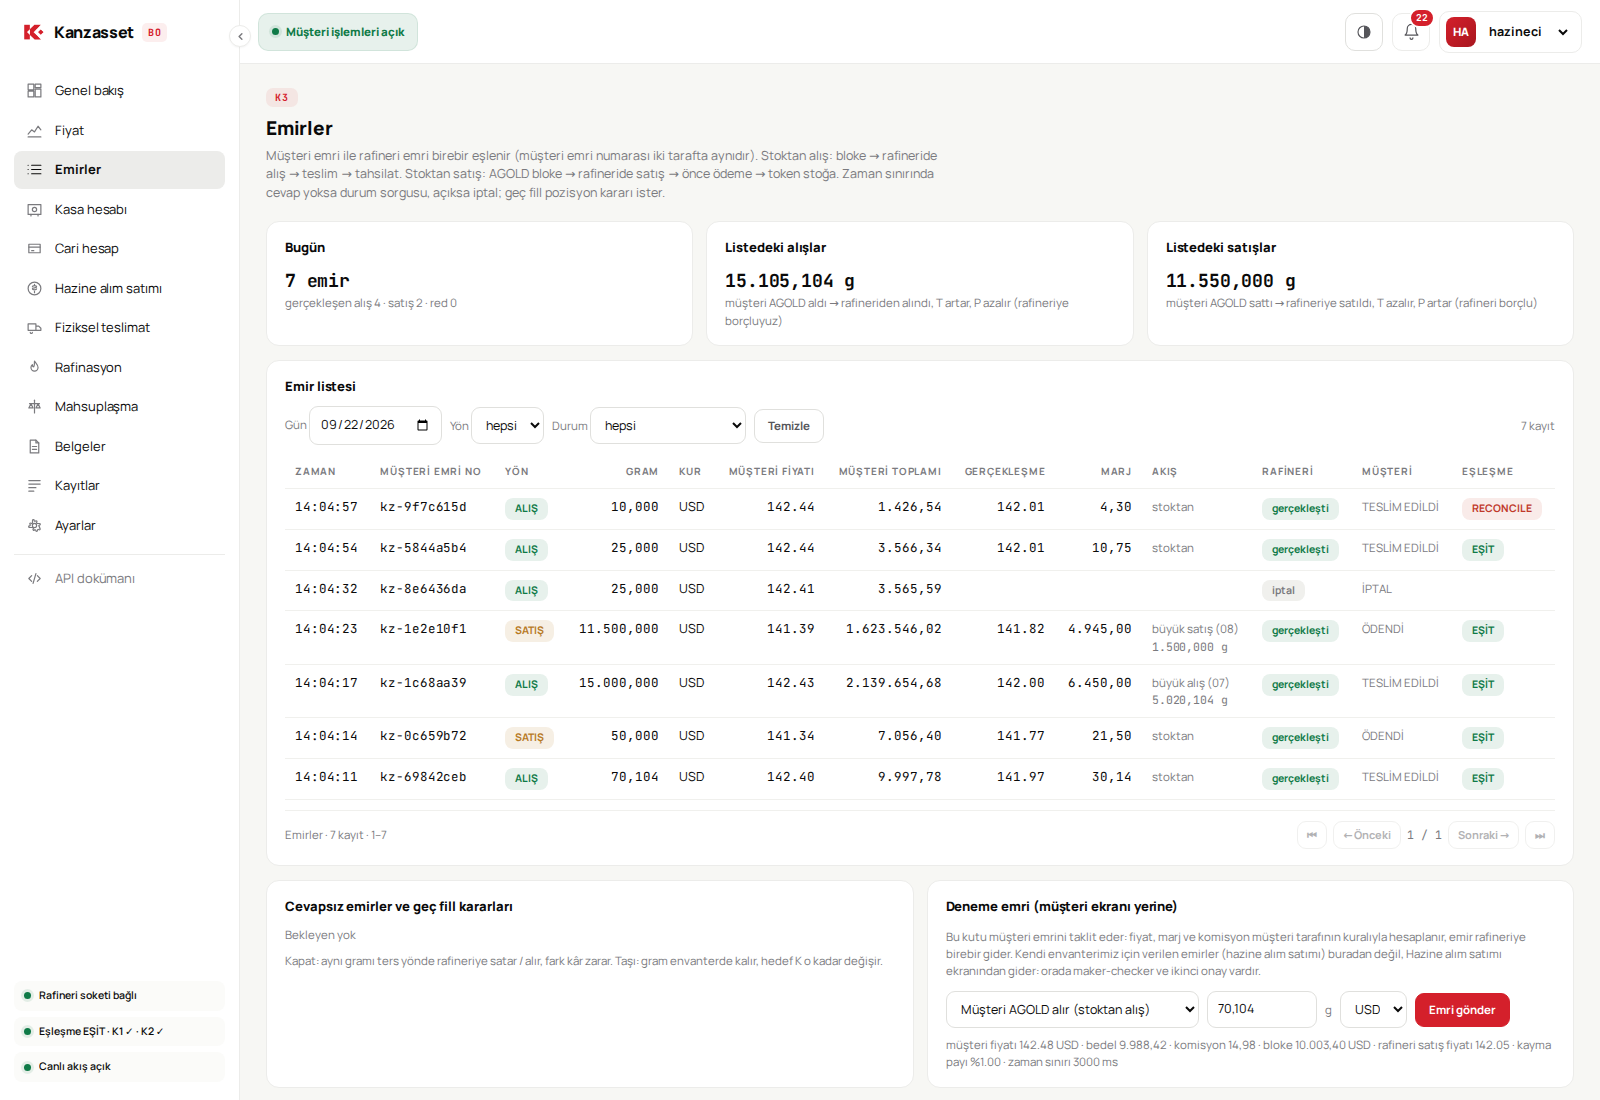
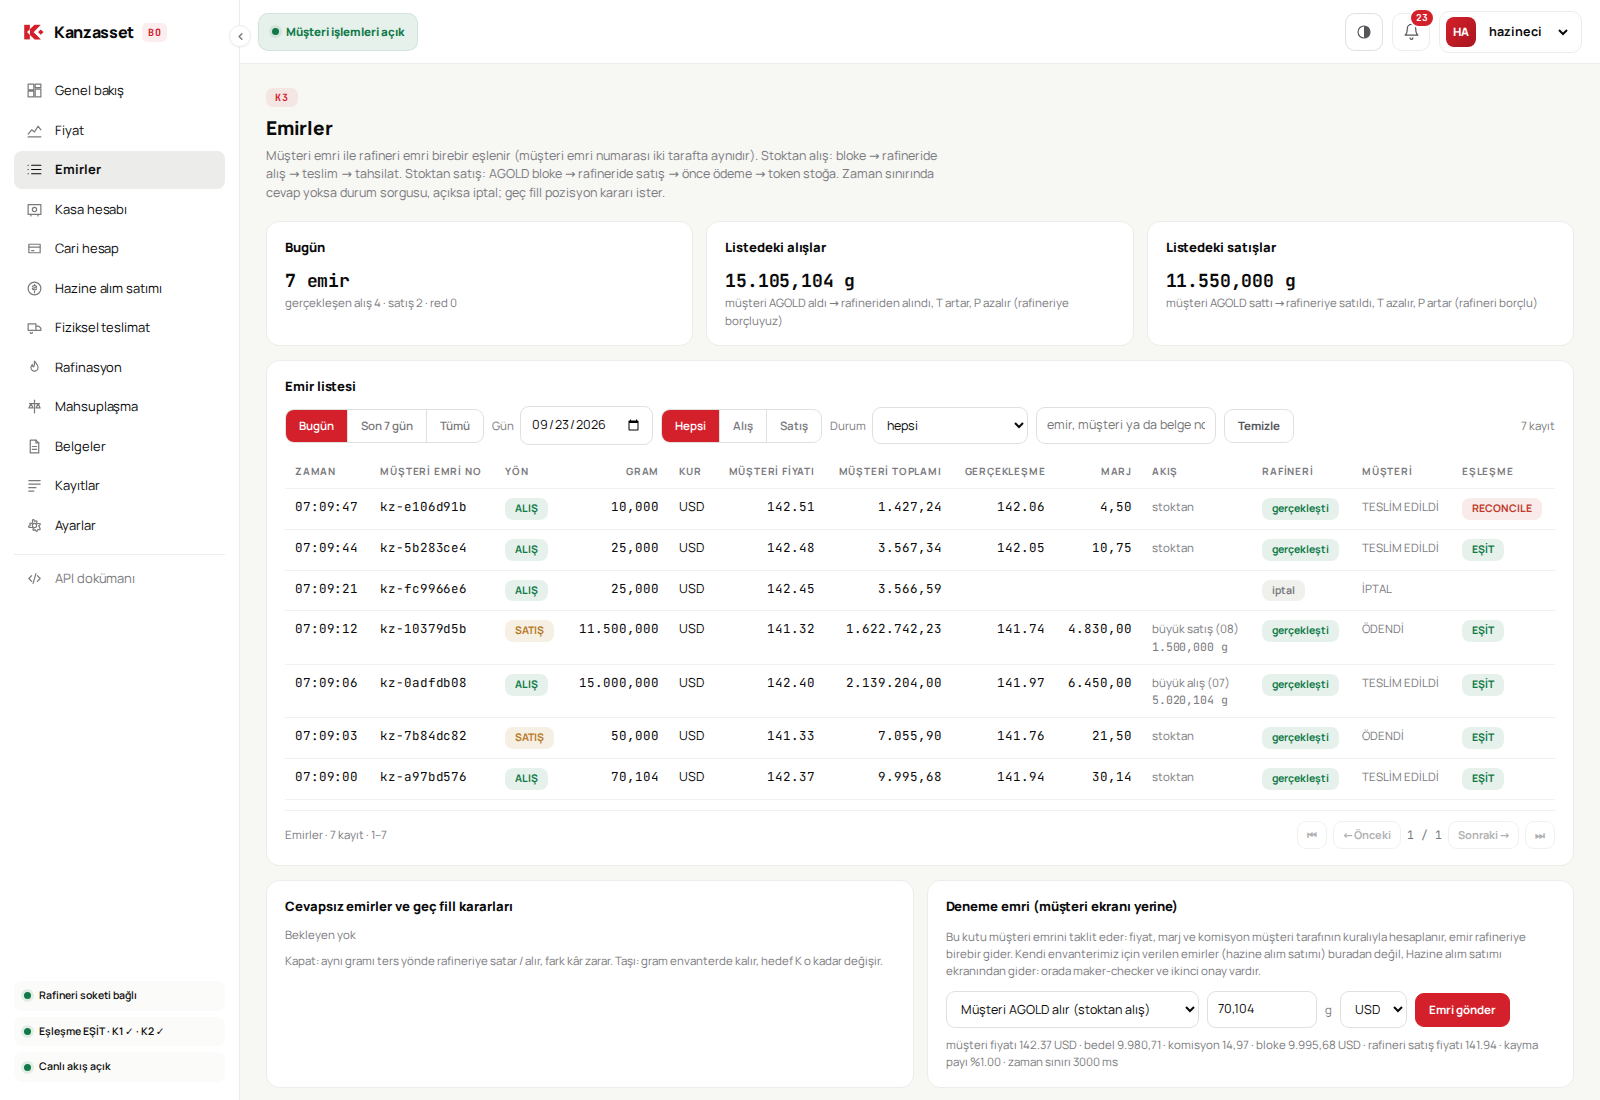
Emir süzgeçleri rafineriyle aynı, kasa talimatları 10 satır
- Emir listesi: dönem düğmeleri (Bugün / Son 7 gün / Tümü) + gün seçici, yön düğmeleri,
  durum listesi ve metin araması (emir, müşteri ya da belge no)
- Kasa talimatları listesi 10 satır, sayfa geçişiyle

Claude-Session: https://claude.ai/code/session_01FHsuXnfTh4Mk49Rpn4YzXE

diff --git a/apps/kz-web/src/pages/K3Orders.tsx b/apps/kz-web/src/pages/K3Orders.tsx
@@ -16,9 +16,12 @@ export function K3Orders({ live }: { live: Live }) {
   const s = live.status;
   const [data, setData] = useState<{ items: CustomerOrder[]; unanswered: CustomerOrder[]; lateFills: CustomerOrder[] } | null>(null);
   const [sel, setSel] = useState<CustomerOrder | null>(null);
+  /** Dönem: bugün · son 7 gün · tümü · seçilen gün. Gün seçilince dönem "gun" olur. */
+  const [period, setPeriod] = useState<"bugun" | "7gun" | "tumu" | "gun">("bugun");
   const [day, setDay] = useState(today());
   const [sideF, setSideF] = useState("");
   const [statusF, setStatusF] = useState("");
+  const [search, setSearch] = useState("");
   const [side, setSide] = useState<"BUY" | "SELL">("BUY");
   const [grams, setGrams] = useState("70,104");
   const [ccy, setCcy] = useState<Ccy>("USD");
@@ -48,10 +51,15 @@ export function K3Orders({ live }: { live: Live }) {
   const all = data?.items ?? [];
   const todays = all.filter((o) => sameDay(o.ts, today()));
   const count = (st: string, sd?: string) => todays.filter((o) => o.status === st && (!sd || o.side === sd)).length;
-  const list = all.filter((o) => sameDay(o.ts, day) && (!sideF || o.side === sideF) && (!statusF || o.status === statusF));
+  const since = period === "7gun" ? Date.now() - 7 * 86_400_000 : 0;
+  const text = search.trim().toLowerCase();
+  const list = all.filter((o) =>
+    (period === "tumu" || period === "7gun" ? (!since || Date.parse(o.ts) >= since) : sameDay(o.ts, period === "bugun" ? today() : day)) &&
+    (!sideF || o.side === sideF) && (!statusF || o.status === statusF) &&
+    (!text || o.id.toLowerCase().includes(text) || (o.customer_ref ?? "").toLowerCase().includes(text) || (o.refinery?.allocation_certificate?.doc_id ?? "").toLowerCase().includes(text)));
   const filled = list.filter((o) => o.status === "FILLED");
   const sumMg = (sd: "BUY" | "SELL") => filled.filter((o) => o.side === sd).reduce((a, o) => a + o.qty_mg, 0);
-  const p = usePager(list, 20, `${day}|${sideF}|${statusF}`);
+  const p = usePager(list, 20, `${period}|${day}|${sideF}|${statusF}|${text}`);
   const waiting = (data?.unanswered.length ?? 0) + (data?.lateFills.length ?? 0);
 
   return (
@@ -68,12 +76,26 @@ export function K3Orders({ live }: { live: Live }) {
 
       <section className="card">
         <h2>Emir listesi</h2>
-        <div className="row" style={{ marginBottom: 10 }}>
-          <label className="small">Gün <input type="date" value={day} onChange={(e) => setDay(e.target.value)} /></label>
-          <label className="small">Yön <select value={sideF} onChange={(e) => setSideF(e.target.value)}><option value="">hepsi</option><option value="BUY">alış</option><option value="SELL">satış</option></select></label>
-          <label className="small">Durum <select value={statusF} onChange={(e) => setStatusF(e.target.value)}><option value="">hepsi</option><option value="FILLED">gerçekleşti</option><option value="REJECTED">reddedildi</option><option value="CANCELLED">iptal</option><option value="UNANSWERED">cevapsız</option><option value="LATE_FILL">geç fill</option><option value="SENT">gönderildi (bekliyor)</option></select></label>
-          <button className="ghost" onClick={() => { setDay(""); setSideF(""); setStatusF(""); }}>Temizle</button>
-          <span className="small" style={{ marginLeft: "auto" }}>{list.length} kayıt</span>
+        <div className="filters" style={{ marginBottom: 10 }}>
+          <div className="seg">
+            <button className={period === "bugun" ? "on" : ""} onClick={() => setPeriod("bugun")}>Bugün</button>
+            <button className={period === "7gun" ? "on" : ""} onClick={() => setPeriod("7gun")}>Son 7 gün</button>
+            <button className={period === "tumu" ? "on" : ""} onClick={() => setPeriod("tumu")}>Tümü</button>
+          </div>
+          <label>Gün <input type="date" value={day} onChange={(e) => { setDay(e.target.value); setPeriod(e.target.value ? "gun" : "tumu"); }} /></label>
+          <div className="seg">
+            <button className={sideF === "" ? "on" : ""} onClick={() => setSideF("")}>Hepsi</button>
+            <button className={sideF === "BUY" ? "on" : ""} onClick={() => setSideF("BUY")}>Alış</button>
+            <button className={sideF === "SELL" ? "on" : ""} onClick={() => setSideF("SELL")}>Satış</button>
+          </div>
+          <label>Durum
+            <select value={statusF} onChange={(e) => setStatusF(e.target.value)}>
+              <option value="">hepsi</option><option value="FILLED">gerçekleşti</option><option value="REJECTED">reddedildi</option><option value="CANCELLED">iptal</option><option value="UNANSWERED">cevapsız</option><option value="LATE_FILL">geç fill</option><option value="SENT">gönderildi (bekliyor)</option>
+            </select>
+          </label>
+          <input placeholder="emir, müşteri ya da belge no ara" value={search} onChange={(e) => setSearch(e.target.value)} style={{ minWidth: 180 }} />
+          <button className="ghost" onClick={() => { setPeriod("bugun"); setDay(today()); setSideF(""); setStatusF(""); setSearch(""); }}>Temizle</button>
+          <span className="small" style={{ marginLeft: "auto" }}>{list.length} kayıt{list.length !== all.length ? ` (${all.length} içinden)` : ""}</span>
         </div>
         <table>
           <thead><tr><th>Zaman</th><th>Müşteri emri no</th><th>Yön</th><th className="num">Gram</th><th>Kur</th><th className="num">Müşteri fiyatı</th><th className="num">Müşteri toplamı</th><th className="num">Gerçekleşme</th><th className="num">Marj</th><th>Akış</th><th>Rafineri</th><th>Müşteri</th><th>Eşleşme</th></tr></thead>

diff --git a/apps/kz-web/src/styles.css b/apps/kz-web/src/styles.css
@@ -141,6 +141,14 @@ button.primary:hover:not(:disabled){background:var(--accent-hover);color:#fff}
 button.danger{background:var(--bad);color:#fff;border-color:var(--bad)}
 button.danger:hover:not(:disabled){background:#A93226;color:#fff}
 button.ghost{background:transparent}
+/* açık kapalı düğme kümesi: yön ve dönem süzgeçleri */
+.seg{display:inline-flex;border:1px solid var(--line3);border-radius:9px;overflow:hidden;height:34px}
+.seg button{border:0;border-radius:0;height:32px;background:transparent;color:var(--mut);font-weight:600}
+.seg button+button{border-left:1px solid var(--line3)}
+.seg button.on{background:var(--accent);color:#fff}
+.seg button.on:hover{background:var(--accent-hover);color:#fff}
+.filters{display:flex;flex-wrap:wrap;gap:8px;align-items:center}
+.filters label{display:flex;align-items:center;gap:6px;font-size:11.5px;color:var(--mut)}
 button:disabled{opacity:.45;cursor:not-allowed}
 
 /* ---- tablolar ---- */

diff --git a/apps/kz-web/src/pages/K4Vault.tsx b/apps/kz-web/src/pages/K4Vault.tsx
@@ -29,7 +29,7 @@ export function K4Vault({ live }: { live: Live }) {
 
   const capPct = v && v.placing_cap_mg > 0 ? v.committed_placing_mg / v.placing_cap_mg : 0;
 
-  const pItems = usePager(v?.items ?? [], 20);
+  const pItems = usePager(v?.items ?? [], 10);
   return (
     <div>
       <span className="tag">K4</span>
